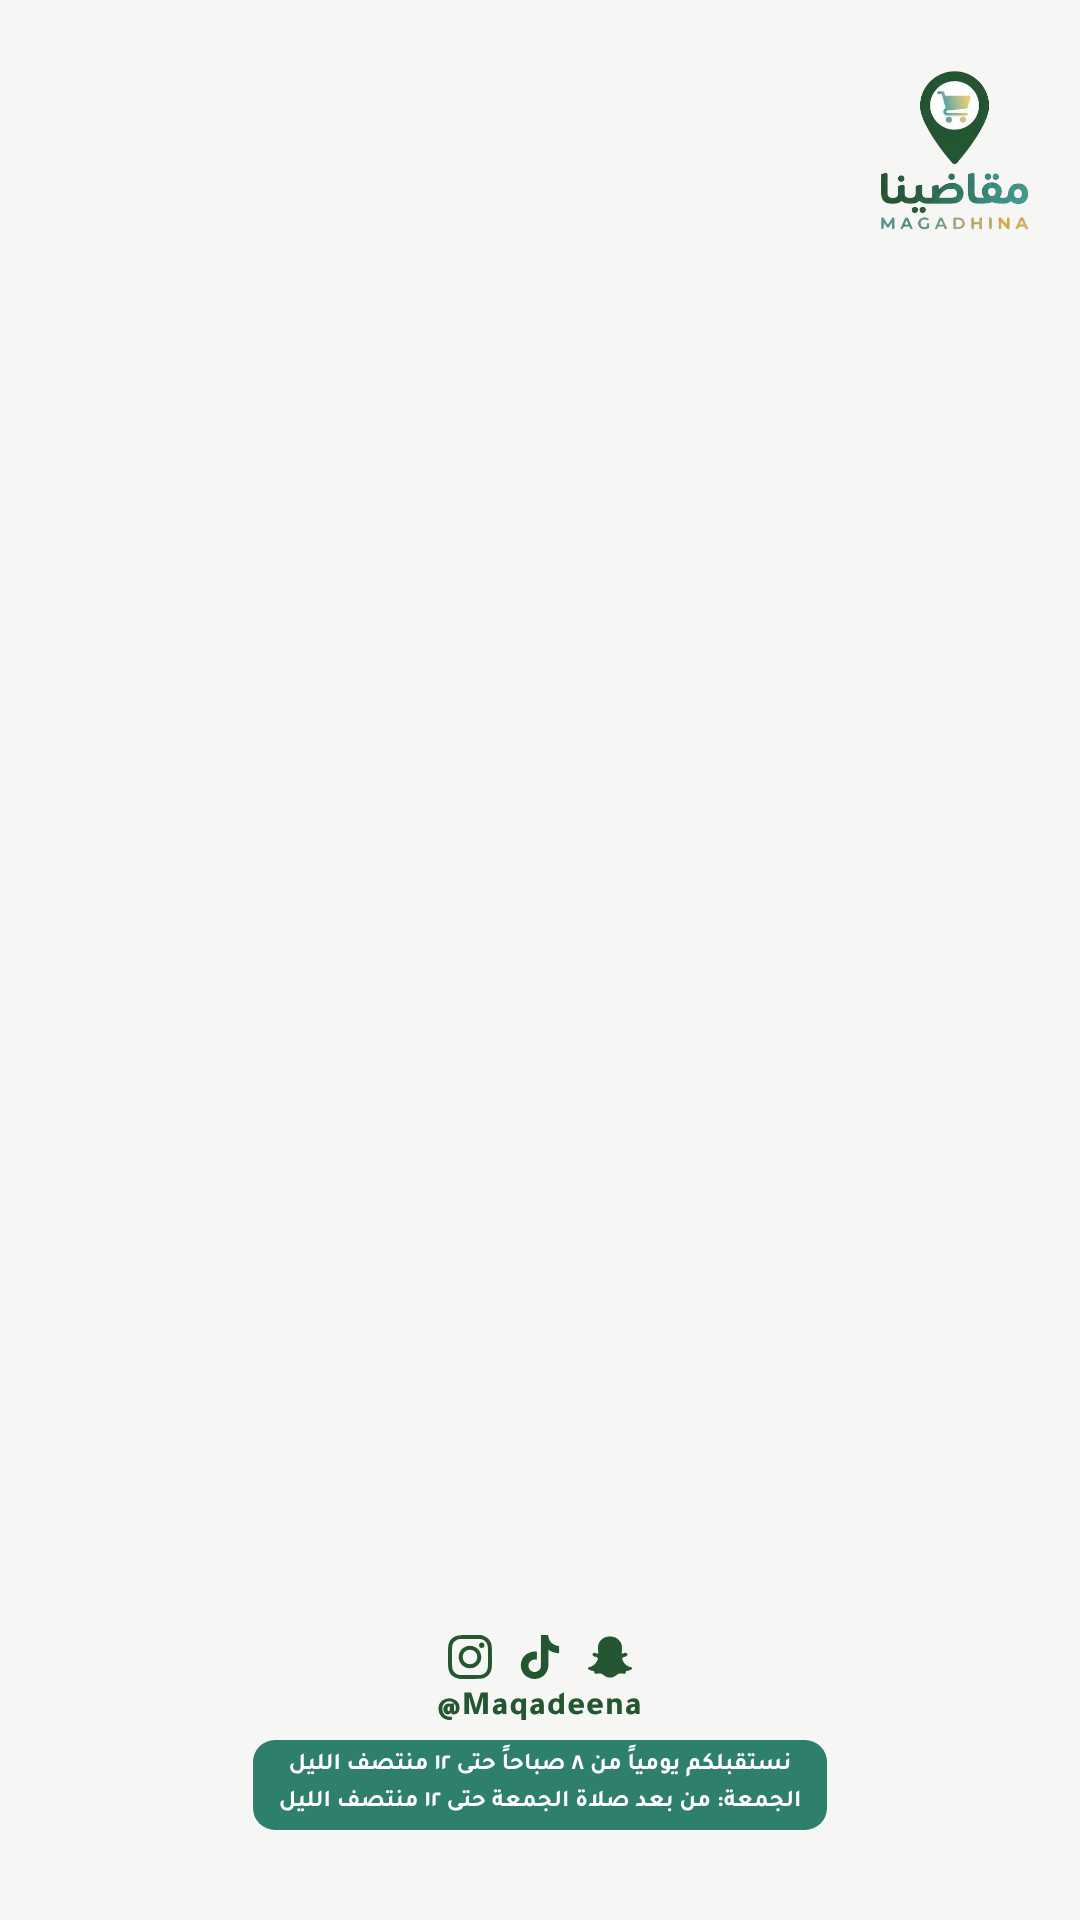
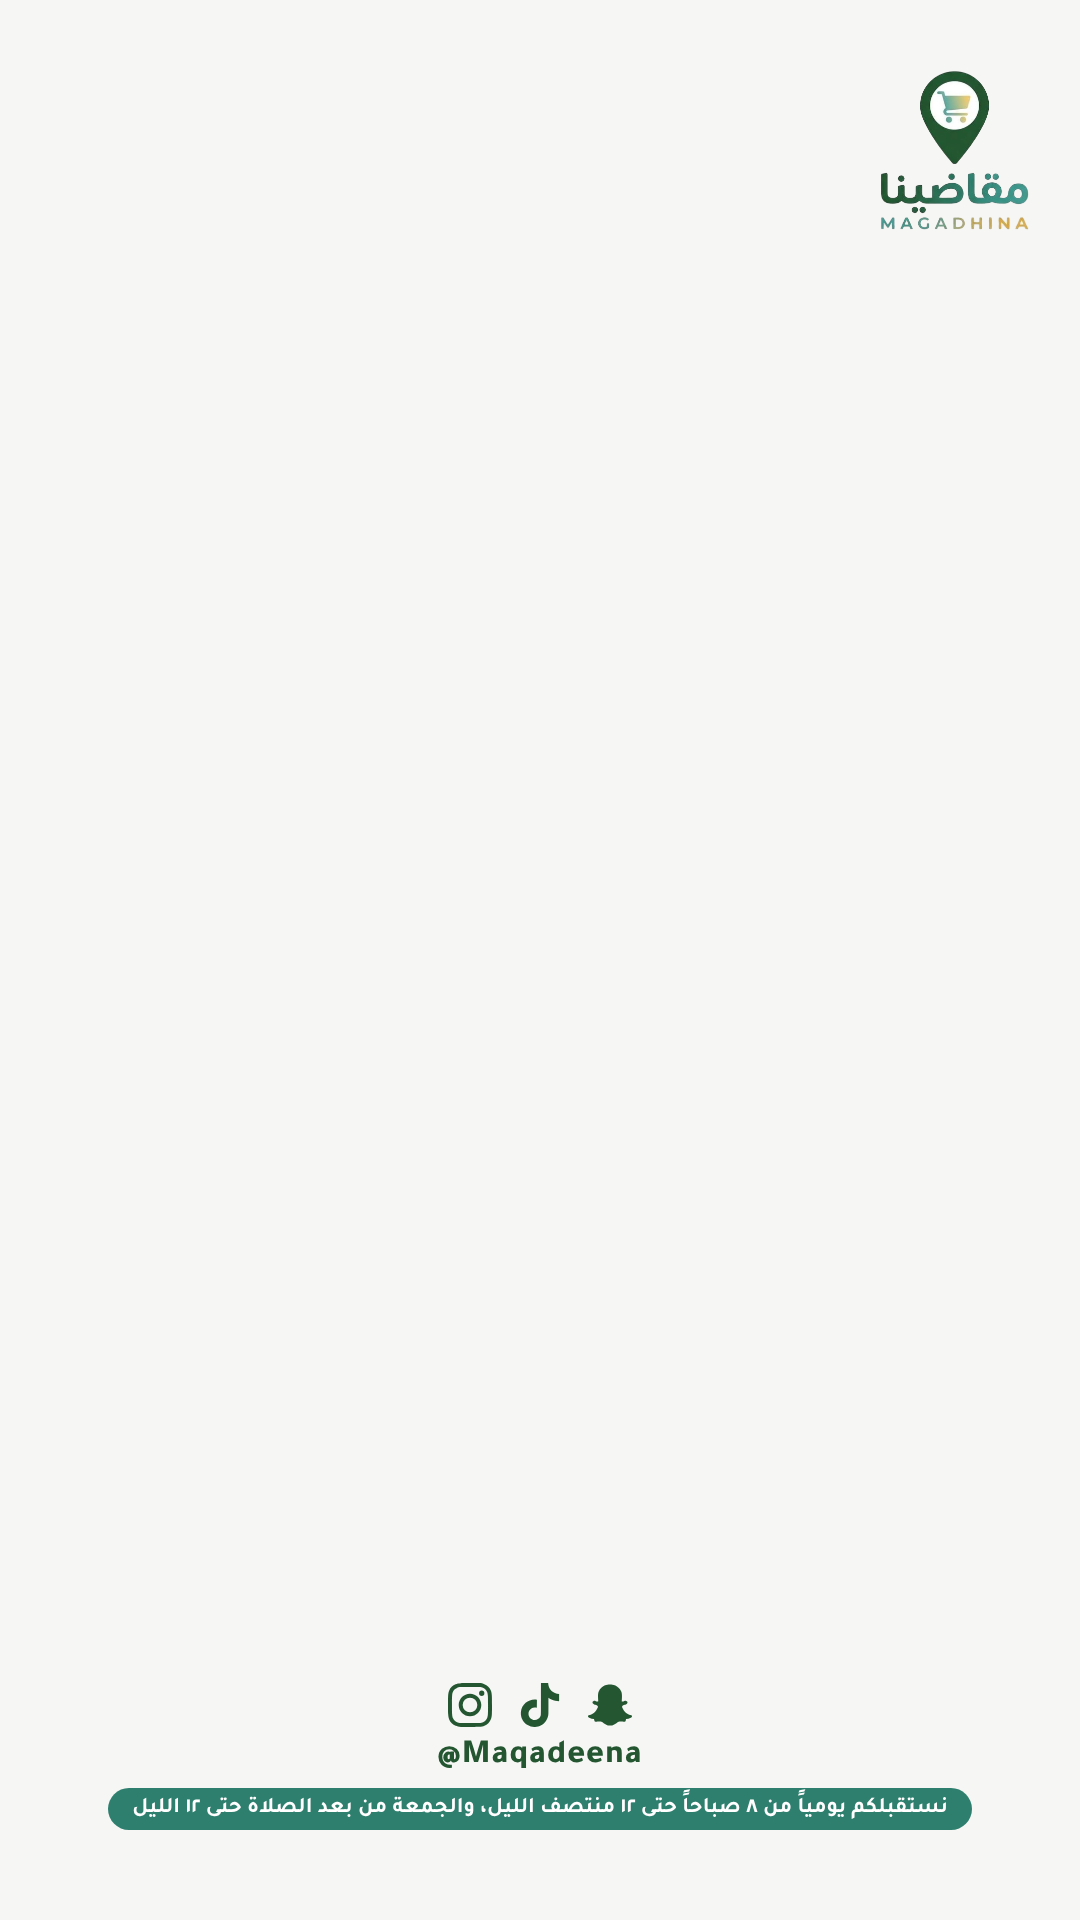
Put opening hours on a single line
Claude-Session: https://claude.ai/code/session_018TE8TxSFjUoAP3ee6M5xNZ

Changed region(s): [[0.0917, 0.8438, 0.9167, 0.9688]]

diff --git a/magadhina-story/story.html b/magadhina-story/story.html
@@ -12,7 +12,7 @@ body{width:1080px;height:1920px;background:var(--bg);font-family:'Tajawal',sans-
 .ic{width:44px;height:44px;display:grid;place-items:center}
 .ic svg{width:44px;height:44px;fill:var(--g)}
 .handle{display:inline-block;font-size:34px;font-weight:800;color:var(--g);direction:ltr;font-family:'Tajawal',sans-serif;letter-spacing:1px}
-.hours{margin:10px auto 0;display:inline-block;font-size:24px;font-weight:700;color:#fff;background:var(--g2);padding:8px 26px;border-radius:22px;line-height:1.55}
+.hours{margin:10px auto 0;display:inline-block;font-size:22px;font-weight:700;color:#fff;background:var(--g2);padding:8px 24px;border-radius:999px;white-space:nowrap}
 </style></head><body>
 <img class="logo" src="logo.webp" alt="مقاضينا">
 <div class="content"></div>
@@ -23,6 +23,6 @@ body{width:1080px;height:1920px;background:var(--bg);font-family:'Tajawal',sans-
     <div class="ic"><svg viewBox="0 0 24 24"><path d="M7.0301.084c-1.2768.0602-2.1487.264-2.911.5634-.7888.3075-1.4575.72-2.1228 1.3877-.6652.6677-1.075 1.3368-1.3802 2.127-.2954.7638-.4956 1.6365-.552 2.914-.0564 1.2775-.0689 1.6882-.0626 4.947.0062 3.2586.0206 3.6671.0825 4.9473.061 1.2765.264 2.1482.5635 2.9107.308.7889.72 1.4573 1.388 2.1228.6679.6655 1.3365 1.0743 2.1285 1.38.7632.295 1.6361.4961 2.9134.552 1.2773.056 1.6884.069 4.9462.0627 3.2578-.0062 3.668-.0207 4.9478-.0814 1.28-.0607 2.147-.2652 2.9098-.5633.7889-.3086 1.4578-.72 2.1228-1.3881.665-.6682 1.0745-1.3378 1.3795-2.1284.2957-.7632.4966-1.636.552-2.9124.056-1.2809.0692-1.6898.063-4.948-.0063-3.2583-.021-3.6668-.0817-4.9465-.0607-1.2797-.264-2.1487-.5633-2.9117-.3084-.7889-.72-1.4568-1.3876-2.1228C21.2982 1.33 20.628.9208 19.8378.6165 19.074.321 18.2017.1197 16.9244.0645 15.6471.0093 15.236-.005 11.977.0014 8.718.0076 8.31.0215 7.0301.0839m.1402 21.6932c-1.17-.0509-1.8053-.2453-2.2287-.408-.5606-.216-.96-.4771-1.3819-.895-.422-.4178-.6811-.8186-.9-1.378-.1644-.4234-.3624-1.058-.4171-2.228-.0595-1.2645-.072-1.6442-.079-4.848-.007-3.2037.0053-3.583.0607-4.848.05-1.169.2456-1.805.408-2.2282.216-.5613.4762-.96.895-1.3816.4188-.4217.8184-.6814 1.3783-.9003.423-.1651 1.0575-.3614 2.227-.4171 1.2655-.06 1.6447-.072 4.848-.079 3.2033-.007 3.5835.005 4.8495.0608 1.169.0508 1.8053.2445 2.228.408.5608.216.96.4754 1.3816.895.4217.4194.6816.8176.9005 1.3787.1653.4217.3617 1.056.4169 2.2263.0602 1.2655.0739 1.645.0796 4.848.0058 3.203-.0055 3.5834-.061 4.848-.051 1.17-.245 1.8055-.408 2.2294-.216.5604-.4763.96-.8954 1.3814-.419.4215-.8181.6811-1.3783.9-.4224.1649-1.0577.3617-2.2262.4174-1.2656.0595-1.6448.072-4.8493.079-3.2045.007-3.5825-.006-4.848-.0608M16.953 5.5864A1.44 1.44 0 1 0 18.39 4.144a1.44 1.44 0 0 0-1.437 1.4424M5.8385 12.012c.0067 3.4032 2.7706 6.1557 6.173 6.1493 3.4026-.0065 6.157-2.7701 6.1506-6.1733-.0065-3.4032-2.771-6.1565-6.174-6.1498-3.403.0067-6.156 2.771-6.1496 6.1738M8 12.0077a4 4 0 1 1 4.008 3.9921A3.9996 3.9996 0 0 1 8 12.0077"/></svg></div>
   </div>
   <div class="handle">@Maqadeena</div><br>
-  <div class="hours">نستقبلكم يومياً من ٨ صباحاً حتى ١٢ منتصف الليل<br>الجمعة: من بعد صلاة الجمعة حتى ١٢ منتصف الليل</div>
+  <div class="hours">نستقبلكم يومياً من ٨ صباحاً حتى ١٢ منتصف الليل، والجمعة من بعد الصلاة حتى ١٢ الليل</div>
 </div>
 </body></html>

diff --git a/magadhina-story/build.py b/magadhina-story/build.py
@@ -4,7 +4,7 @@ def path(n): return re.search(r' d="([^"]*)"', (here/'icons'/f'{n}.svg').read_te
 
 # ======= عدّل هنا =======
 HANDLE = "@Maqadeena"
-HOURS  = "نستقبلكم يومياً من ٨ صباحاً حتى ١٢ منتصف الليل<br>الجمعة: من بعد صلاة الجمعة حتى ١٢ منتصف الليل"
+HOURS  = "نستقبلكم يومياً من ٨ صباحاً حتى ١٢ منتصف الليل، والجمعة من بعد الصلاة حتى ١٢ الليل"
 GREEN  = "#245731"
 # ========================
 
@@ -22,7 +22,7 @@ body{{width:1080px;height:1920px;background:var(--bg);font-family:'Tajawal',sans
 .ic{{width:44px;height:44px;display:grid;place-items:center}}
 .ic svg{{width:44px;height:44px;fill:var(--g)}}
 .handle{{display:inline-block;font-size:34px;font-weight:800;color:var(--g);direction:ltr;font-family:'Tajawal',sans-serif;letter-spacing:1px}}
-.hours{{margin:10px auto 0;display:inline-block;font-size:24px;font-weight:700;color:#fff;background:var(--g2);padding:8px 26px;border-radius:22px;line-height:1.55}}
+.hours{{margin:10px auto 0;display:inline-block;font-size:22px;font-weight:700;color:#fff;background:var(--g2);padding:8px 24px;border-radius:999px;white-space:nowrap}}
 </style></head><body>
 <img class="logo" src="logo.webp" alt="مقاضينا">
 <div class="content"></div>
